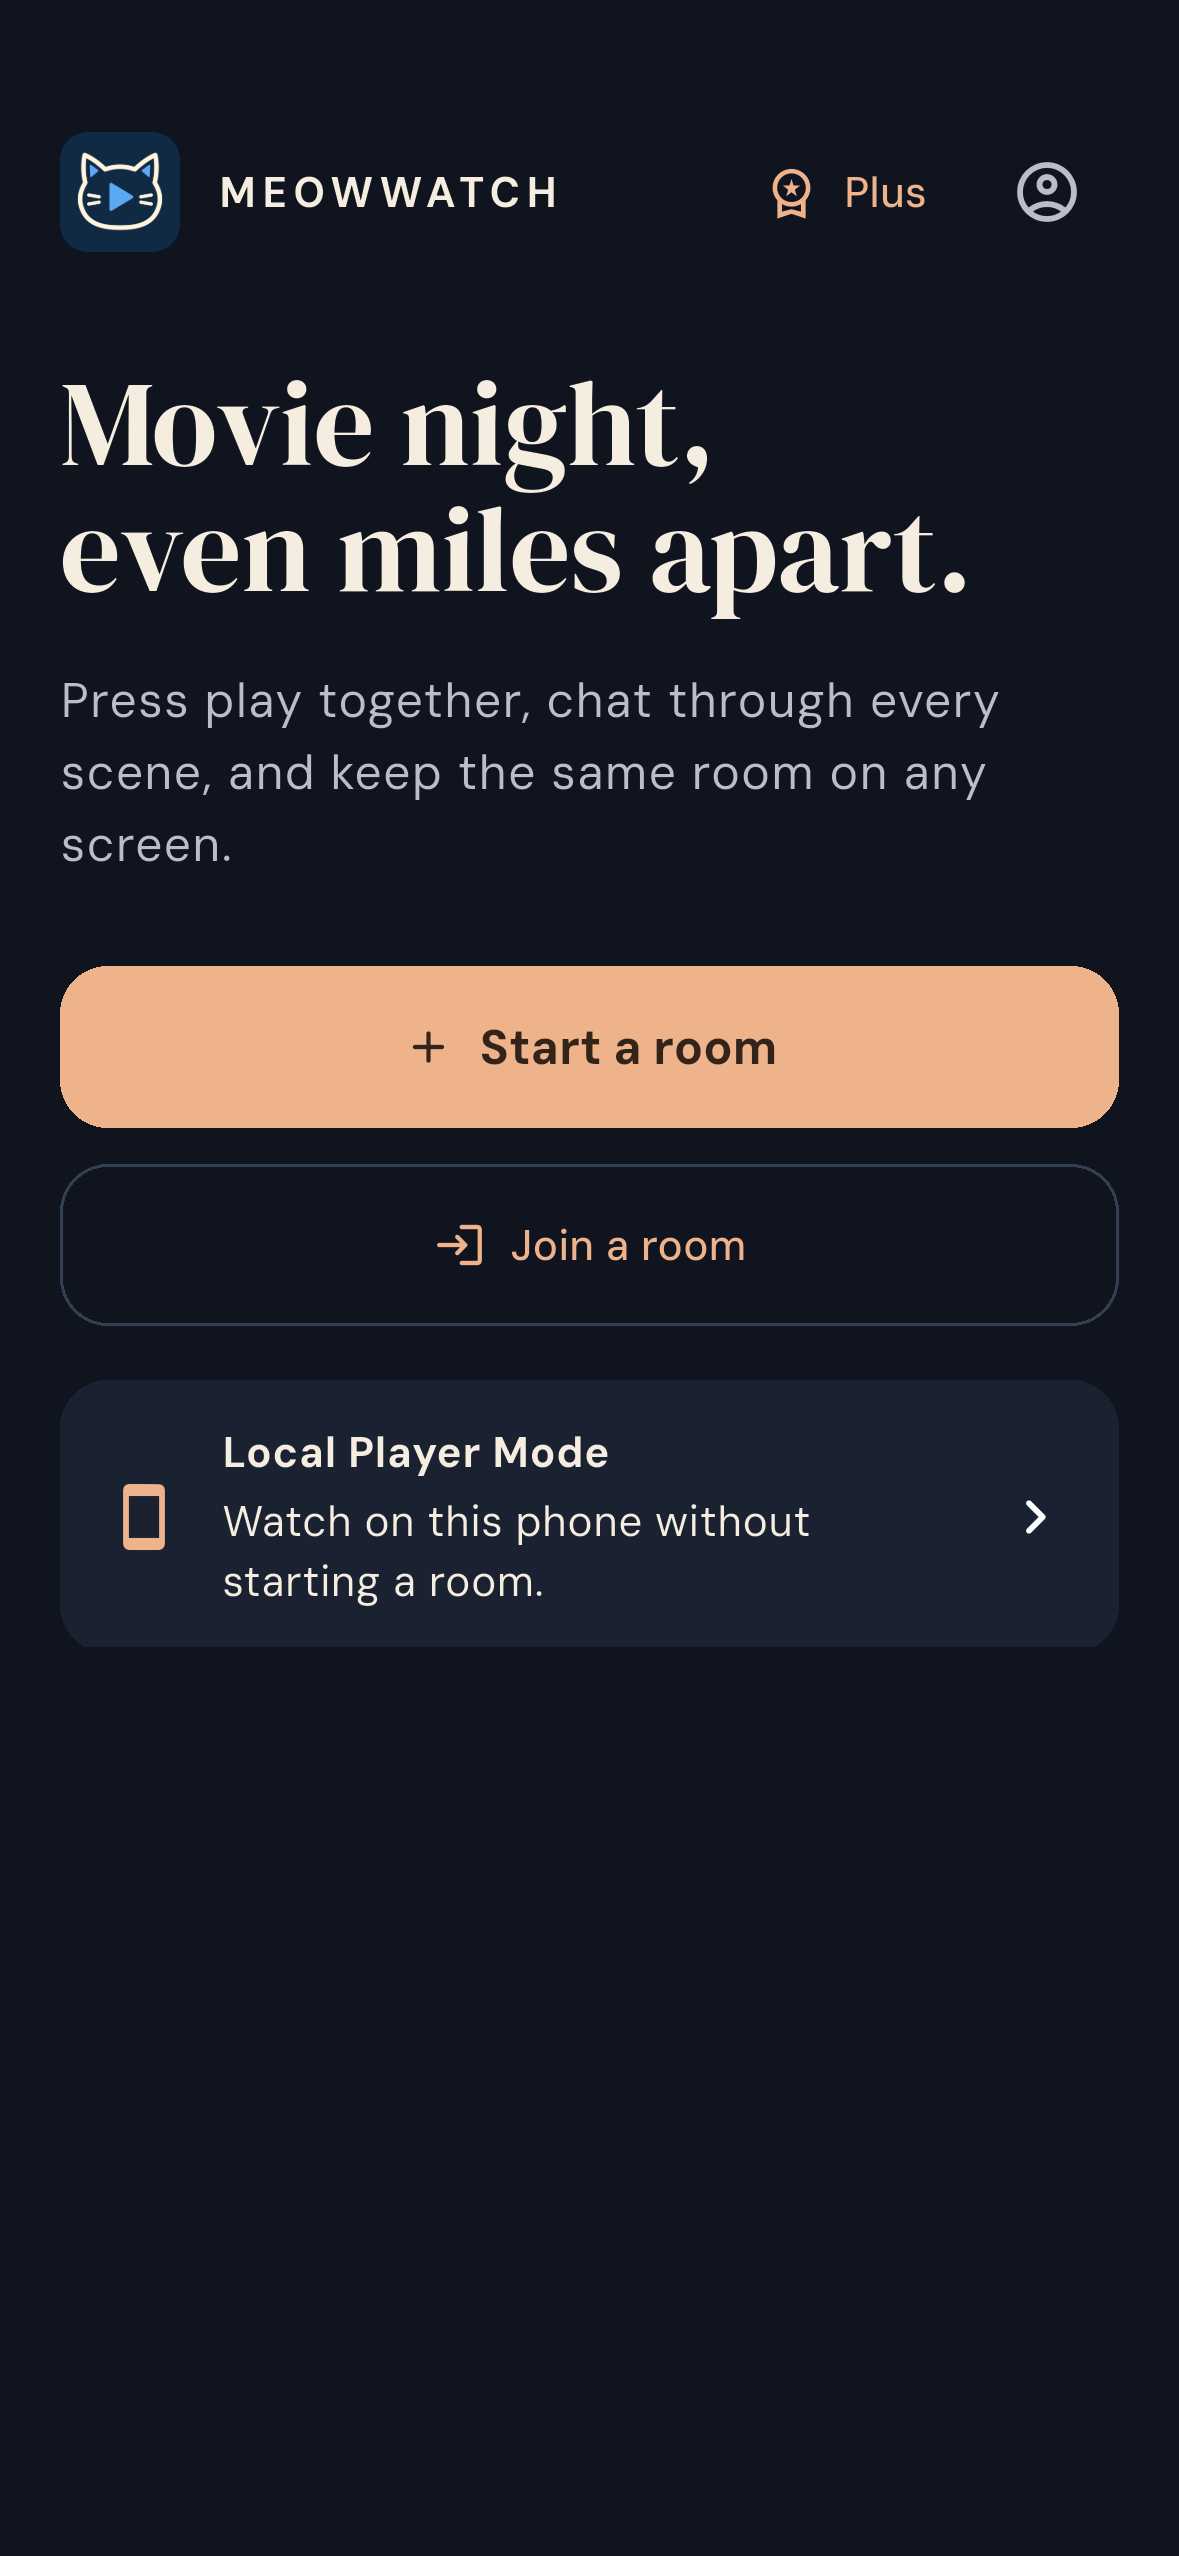
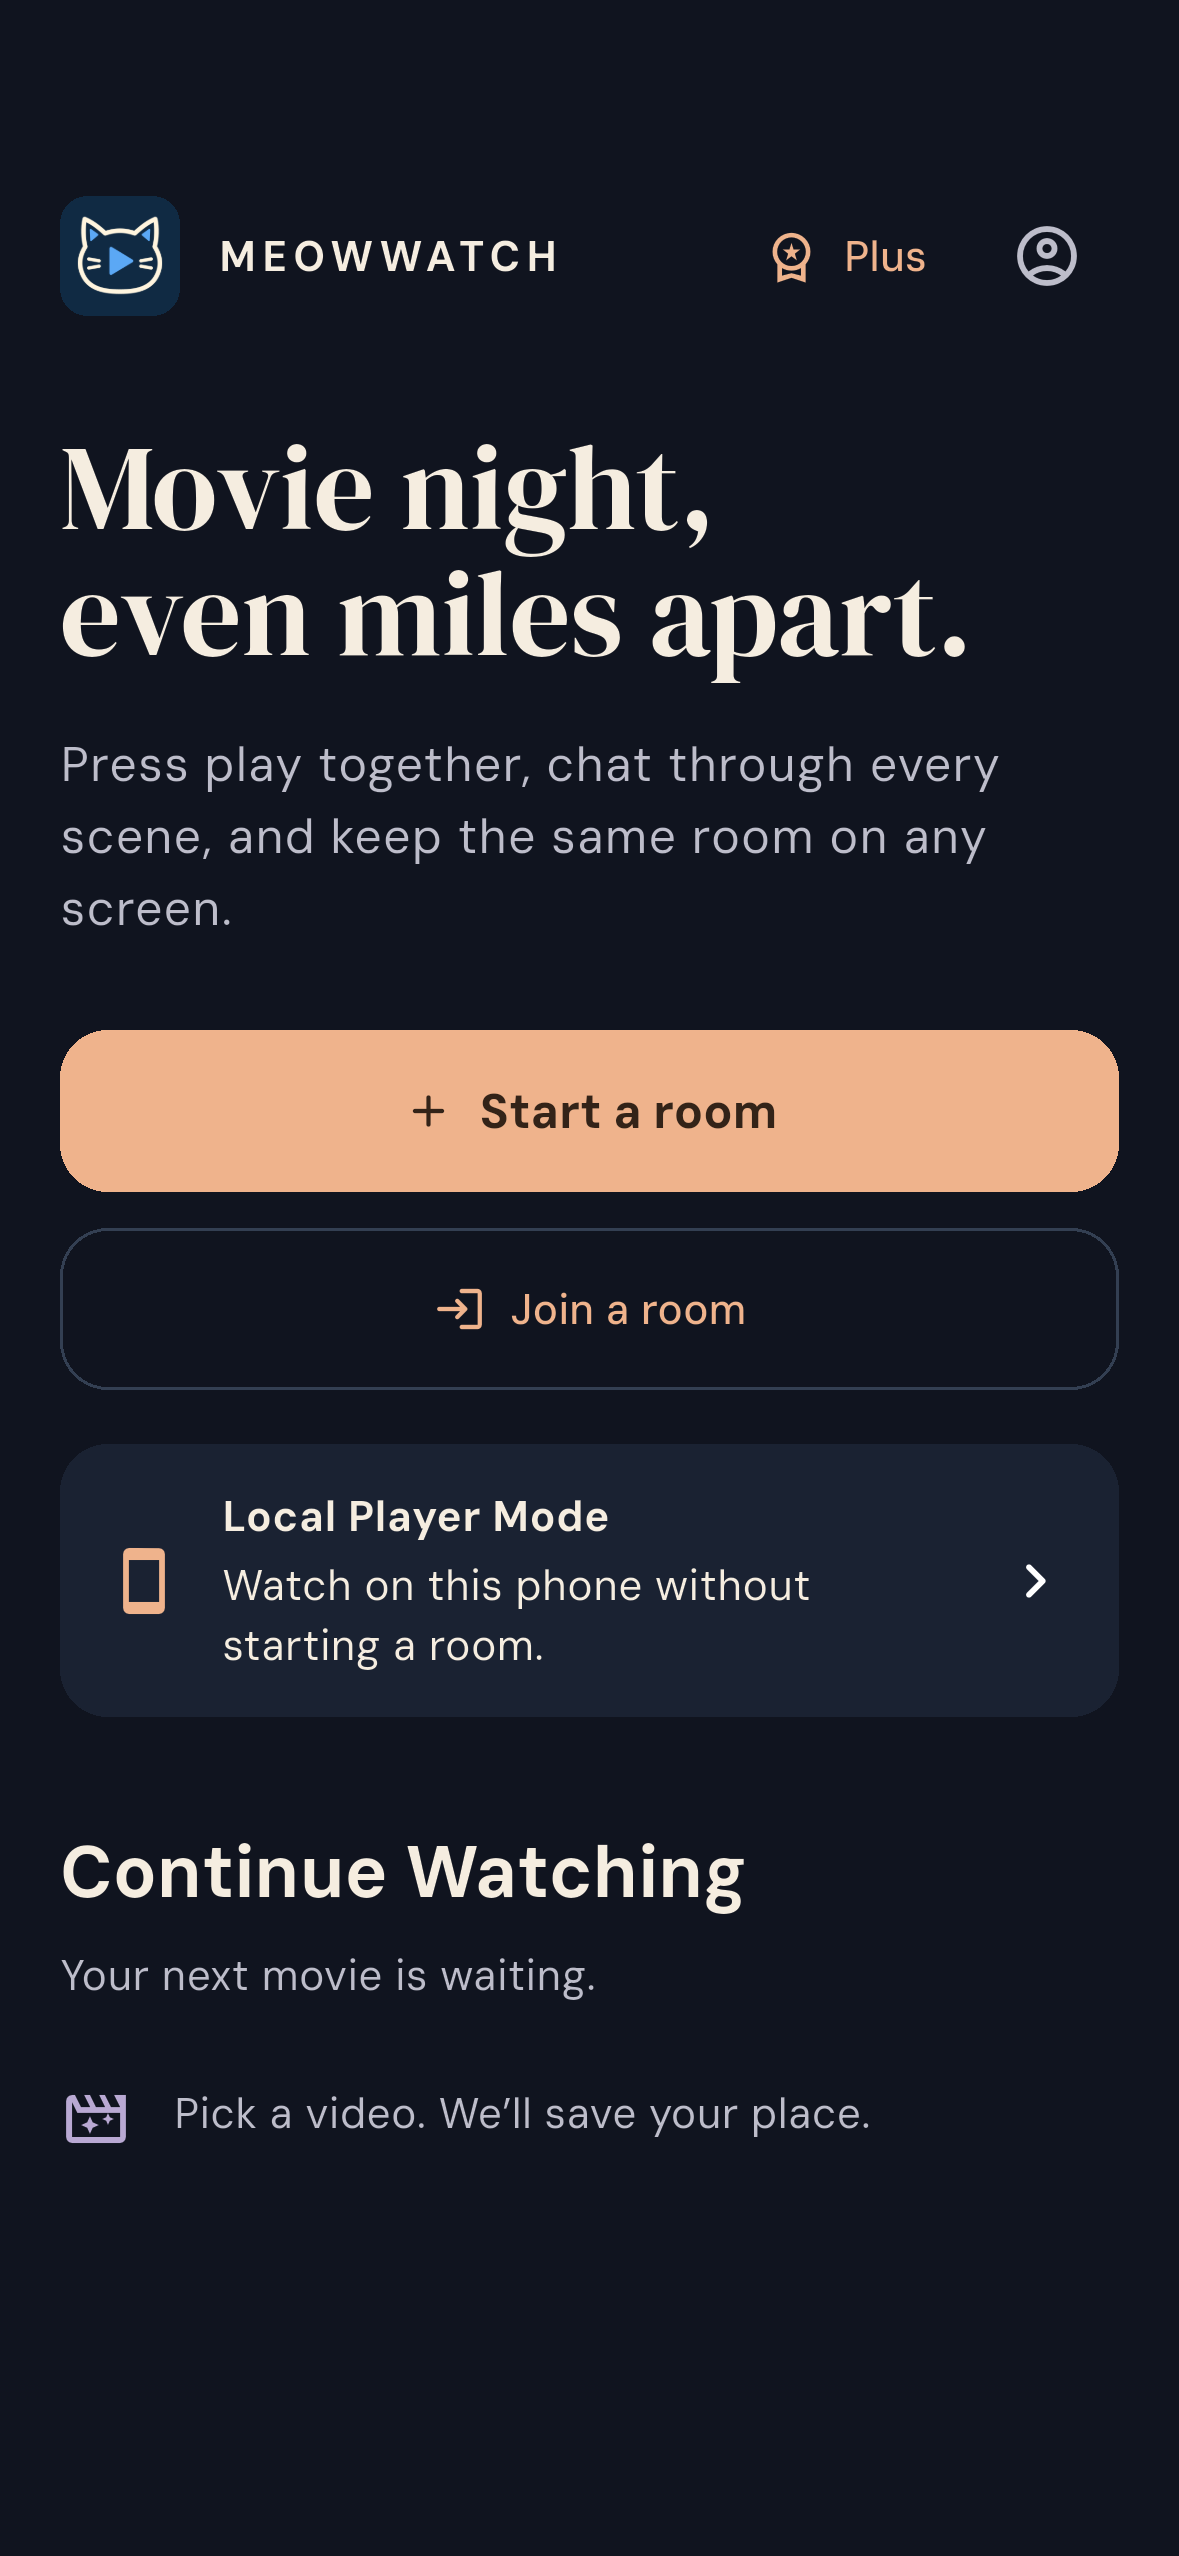
Prepare reproducible brand assets and accurate native demo cuts

diff --git a/tools/submission_demo/test_compose.py b/tools/submission_demo/test_compose.py
@@ -173,6 +173,64 @@ class EdlValidationTests(unittest.TestCase):
 
 @unittest.skipUnless(shutil.which("ffmpeg") and shutil.which("ffprobe"), "ffmpeg and ffprobe required")
 class RenderTests(unittest.TestCase):
+    def test_vfr_cuts_keep_held_frame_and_fractional_pair_offsets(self):
+        with tempfile.TemporaryDirectory(prefix="meowwatch-vfr-synthetic-only-") as folder:
+            root = Path(folder)
+            edl_path = fixture(root)
+            edl = compose.read_json(edl_path)
+            for role, size in (("phone", "90x180"), ("tablet", "320x180")):
+                path = root / f"vfr-{role}.mp4"
+                graph = ";".join(f"color={color}:s={size}:r=10:d=0.1[v{i}]"
+                                  for i, color in enumerate(("red", "lime", "blue", "yellow", "magenta")))
+                graph += ";[v0][v1][v2][v3][v4]concat=n=5:v=1:a=0,settb=1/1000,"
+                graph += "setpts='if(eq(N,0),0,if(eq(N,1),700,if(eq(N,2),1800,if(eq(N,3),2050,2900))))'[out]"
+                subprocess.run(["ffmpeg", "-hide_banner", "-loglevel", "error", "-filter_complex_threads", "1",
+                                "-filter_complex", graph, "-map", "[out]", "-fps_mode", "vfr", "-enc_time_base", "1:1000",
+                                "-video_track_timescale", "1000", "-c:v", "libx264", "-bf", "0", "-threads", "1",
+                                "-pix_fmt", "yuv420p", str(path)], check=True)
+                frame_data = json.loads(subprocess.check_output([
+                    "ffprobe", "-v", "error", "-select_streams", "v:0", "-show_frames", "-show_entries",
+                    "frame=best_effort_timestamp_time", "-of", "json", str(path)], text=True))
+                self.assertEqual([float(f["best_effort_timestamp_time"]) for f in frame_data["frames"]],
+                                 [0, 0.7, 1.8, 2.05, 2.9])
+                edl["sources"][role].update({"path": path.name, "sha256": compose.sha256(path)})
+            timing_path = root / "vfr-timing.json"
+            timing = {"schemaVersion": 2, "sources": {}}
+            for role, offset in (("phone", 0), ("tablet", 0.37)):
+                timing["sources"][role] = {"segments": [{
+                    "path": edl["sources"][role]["path"], "sha256": edl["sources"][role]["sha256"],
+                    "status": "available", "estimatedStartSeconds": str(offset),
+                    "estimatedEndSeconds": str(offset + 3)}], "recordingGaps": []}
+            timing_path.write_text(json.dumps(timing), encoding="utf-8")
+            edl["timelines"]["together"] = {"path": timing_path.name, "sha256": compose.sha256(timing_path)}
+            edl["shots"] = [edl["shots"][1], edl["shots"][2]]
+            edl["shots"][0].update({"in": 0.85, "out": 2.85})
+            edl["shots"][1].update({"in": 2.15, "out": 2.95})
+            edl_path.write_text(json.dumps(edl), encoding="utf-8")
+            target = root / "synthetic-vfr.mp4"
+            manifest = compose.render(edl_path, target, preset="ultrafast")
+            self.assertAlmostEqual(manifest["output"]["probe"]["duration"], 2.8, places=5)
+            # Sample every output frame. A normal player holds the source frame
+            # whose PTS is the greatest timestamp <= the requested source clock.
+            colors = [(255, 0, 0), (0, 255, 0), (0, 0, 255), (255, 255, 0), (255, 0, 255)]
+            transitions = [0, 0.7, 1.8, 2.05, 2.9]
+            for role, x, y, start, count, source_in in (
+                ("phone", 320, 450, 0, 60, 0.85),
+                ("tablet", 1200, 500, 0, 60, 0.48),
+                ("single tail", 1300, 500, 60, 24, 2.15),
+            ):
+                pixels = subprocess.check_output([
+                    "ffmpeg", "-hide_banner", "-loglevel", "error", "-i", str(target),
+                    "-vf", f"trim=start_frame={start}:end_frame={start+count},crop=2:2:{x}:{y}",
+                    "-fps_mode", "passthrough", "-f", "rawvideo", "-pix_fmt", "rgb24", "pipe:1"])
+                self.assertEqual(len(pixels), count * 12)
+                for frame in range(count):
+                    clock = source_in + frame / 30
+                    expected = colors[max(i for i, t in enumerate(transitions) if t <= clock + 0.000001)]
+                    actual = pixels[frame * 12:frame * 12 + 3]
+                    self.assertTrue(all(abs(actual[c] - expected[c]) < 30 for c in range(3)),
+                                    (role, frame, clock, expected, tuple(actual)))
+
     def test_synthetic_render_keeps_offsets_and_real_pixels_and_records_hashes(self):
         with tempfile.TemporaryDirectory(prefix="meowwatch-synthetic-only-") as folder:
             root = Path(folder)
@@ -184,6 +242,13 @@ class RenderTests(unittest.TestCase):
             self.assertEqual(manifest["output"]["probe"]["duration"], 3)
             self.assertEqual(manifest["output"]["sha256"], compose.sha256(target))
             self.assertEqual(before, {path: compose.sha256(path) for path in before})
+            frames = json.loads(subprocess.check_output([
+                "ffprobe", "-v", "error", "-select_streams", "v:0", "-show_frames",
+                "-show_entries", "frame=color_space,color_range,color_primaries,color_transfer",
+                "-of", "json", str(target)], text=True))["frames"]
+            self.assertEqual(len(frames), 90)
+            self.assertEqual({(f["color_space"], f["color_range"], f["color_primaries"], f["color_transfer"])
+                              for f in frames}, {("bt709", "tv", "bt709", "bt709")})
             for when, x, y, color in ((0.65, 320, 450, 1), (0.65, 1200, 500, 0),
                                       (1.3, 1200, 500, 1), (1.8, 1300, 500, 2)):
                 pixels = subprocess.check_output([

diff --git a/tools/submission_demo/compose.py b/tools/submission_demo/compose.py
@@ -237,7 +237,7 @@ def render_shot(plan: dict, shot: dict, folder: Path, ffmpeg: str, preset: str) 
                "-filter_complex_threads", "1", "-loop", "1", "-i", "logo.png"]
     for clip in shot["clips"]:
         command.extend(["-noautorotate", "-i", str(plan["sources"][clip["source"]]["path"])])
-    graph = [f"color=c={NAVY}:s=1920x1080:r=30:d={shot['duration']:.9f}[bg]"]
+    graph = [f"color=c={NAVY}:s=1920x1080:r=30:d={shot['duration']:.9f},format=rgb24[bg]"]
     current, counter = "bg", 0
 
     def effect(expression: str) -> None:
@@ -283,12 +283,19 @@ def render_shot(plan: dict, shot: dict, folder: Path, ffmpeg: str, preset: str) 
             x, y, width, height = fit(source, boxes[clip["role"]])
             effect(f"drawbox=x={x-12}:y={y-12}:w={width+24}:h={height+24}:color={BLUE}:t=fill")
             effect(f"drawbox=x={x-11}:y={y-11}:w={width+22}:h={height+22}:color={FRAME}:t=fill")
-            graph.append(f"[{index}:v:0]setpts=PTS-STARTPTS,trim=start={clip['in']:.9f}:"
-                         f"end={clip['out']:.9f},setpts=PTS-STARTPTS,fps=30,"
-                         f"scale={width}:{height}:flags=lanczos,setsar=1[device{index}]")
+            # Keep pre-cut frames: a VFR frame can still be on screen at the
+            # requested cut. Rebase the source CLOCK, never the first retained
+            # frame. The 30fps canvas samples the latest source PTS <= its clock;
+            # validated coverage and the canvas frame limit bound the end.
+            # Quantize changes upward to the canvas tick so framesync cannot
+            # round a future VFR frame back onto an earlier output frame.
+            graph.append(f"[{index}:v:0]settb=AVTB,"
+                         f"setpts='ceil((PTS-STARTPTS-{clip['in']:.9f}/TB)*TB*30-0.000001)/(30*TB)',"
+                         "settb=1/30,"
+                         f"scale={width}:{height}:flags=lanczos,setsar=1,format=rgb24[device{index}]")
             counter += 1
             graph.append(f"[{current}][device{index}]overlay=x={x}:y={y}:"
-                         f"eof_action=pass:repeatlast=0[layer{counter}]")
+                         f"eof_action=pass:repeatlast=0:ts_sync_mode=default:format=rgb[layer{counter}]")
             current = f"layer{counter}"
             words(clip["label"], x, y - 53, 25)
         if shot["kind"] == "pair" or shot.get("device") == "tablet":
@@ -300,12 +307,15 @@ def render_shot(plan: dict, shot: dict, folder: Path, ffmpeg: str, preset: str) 
             runtimes += " · approximate recording alignment · 1×"
         words(runtimes, 64, 1014, 18, BLUE)
     graph.append(f"[0:v:0]scale={logo_size}:{logo_size}[mark]")
-    graph.append(f"[{current}][mark]overlay={logo_x}:{logo_y}:shortest=1[branded]")
+    graph.append(f"[{current}][mark]overlay={logo_x}:{logo_y}:shortest=1:format=rgb[branded]")
     current = "branded"
     if plan["synthetic"]:
         effect(f"drawbox=x=0:y=0:w=1920:h=34:color={CREAM}:t=fill")
         words(SMOKE, "(w-text_w)/2", 4, 22, NAVY)
-    graph.append(f"[{current}]format=yuv420p[out]")
+    # Cards and Android captures can carry different color metadata. Composite
+    # in RGB, then perform one explicit delivery conversion for every shot.
+    graph.append(f"[{current}]scale=out_color_matrix=bt709:out_range=tv,format=yuv420p,"
+                 "setparams=range=limited:colorspace=bt709:color_primaries=bt709:color_trc=bt709[out]")
     (folder / "filter.txt").write_text(";\n".join(graph), encoding="utf-8")
     output = folder / "shot.mp4"
     command += ["-filter_complex_script", "filter.txt", "-map", "[out]", "-an",
@@ -349,6 +359,8 @@ def render(edl_path: Path, output: Path, ffmpeg: str = "ffmpeg", ffprobe: str = 
             "schema_version": 1, "purpose": plan["edl"]["purpose"],
             "acceptance": "Synthetic fixture only" if plan["synthetic"] else "Editorial output; native acceptance and visual review remain external",
             "presentation": "1x, direct cuts, proportional fit, no source crop or overlays inside device content; silent",
+            "sampling": "30fps canvas samples the latest source frame at or before each requested source clock; VFR holds retained, no cut-point rebase",
+            "color": "RGB composition; consistent limited-range BT.709 yuv420p delivery conversion",
             "alignment": "Pinned host-command timeline; not frame-accurate synchronization proof",
             "edl_sha256": plan["protected"][plan["edl_path"]],
             "inputs": [{"path": str(path), "sha256": value} for path, value in plan["protected"].items()],

diff --git a/tools/submission_demo/README.md b/tools/submission_demo/README.md
@@ -6,6 +6,8 @@ stays at 1× speed. The tool adds the selected A / Balanced cat/play logo, bundl
 DM Sans / DM Serif Display fonts, navy/cream/blue framing, and text **outside**
 device content. It proportionally scales the complete capture; no cropping,
 app-pixel replacement, generated motion, zooms, transitions or frozen padding.
+Compositing uses RGB and one consistent limited-range BT.709 delivery conversion,
+so graphics and native shots do not switch color metadata at editorial cuts.
 
 This tool performs an edit, not product acceptance. It cannot determine whether
 an input is authentic, whether the recorded build passed, or whether a claim is
@@ -107,6 +109,16 @@ alignment · 1×**. Visual alignment
 does not replace native convergence measurements. The compositor does not
 independently shift devices to make them appear synchronized.
 
+Android screenrecord can use a variable frame rate. Cuts retain the frame
+already on screen at the requested source time, including when its timestamp
+precedes the cut. The renderer shifts the source clock by the requested in point,
+then samples it on the 30 fps canvas. A change first appears on the first output
+tick at or after its original time; no future frame is selected early. It does
+not trim away held frames and rebase the next retained frame to zero. This uses
+FFmpeg's [timestamp-based frame synchronization](https://ffmpeg.org/ffmpeg-filters.html#Options-for-filters-with-several-inputs-framesync).
+Output ranges must still fit actual video coverage, and source EOF is never
+extended to fill a missing tail.
+
 The timing manifest may contain the runner's original Linux paths; matching by
 hash and basename lets downloaded artifacts resolve locally without rewriting
 that evidence. EDL source paths always point to the downloaded originals.
@@ -121,6 +133,10 @@ python -m py_compile tools/submission_demo/compose.py tools/submission_demo/test
 The test suite creates explicit red/green/blue synthetic fixtures in a temporary
 folder, renders title/pair/single/end shots, probes the MP4, and samples output
 pixels to check that the measured half-second tablet offset is retained. It
+also encodes a true VFR fixture at irregular timestamps 0, 0.7, 1.8, 2.05 and
+2.9 seconds. Every rendered frame is checked against the original held-frame
+clock for cuts between source frames, a fractional 0.37-second tablet offset
+and a clip ending inside the last frame's real coverage. It
 checks original source hashes remain unchanged and verifies failure behavior
 for falsified dimensions/hashes, gaps, independent retiming, source overrun,
 overlong films, mixing synthetic/native purposes and output overwrite.

diff --git a/assets/submission/README.md b/assets/submission/README.md
@@ -30,14 +30,17 @@ byte for byte from the CI artifact: no resizing, cropping, frame or retouching.
 
 This screenshot is separate from the typeset cover artwork above. Its
 [provenance](screenshot-provenance.json) records the exact source commit,
-[run 35191578153](https://github.com/PeterShanxin/MeowWatch-Mobile/actions/runs/35191578153),
+[run 35194003110](https://github.com/PeterShanxin/MeowWatch-Mobile/actions/runs/35194003110),
 artifact-relative path, APK and image hashes, dimensions and runtime.
 
-The source workflow **did not pass its complete purchase journey**. It reached
-free hosting, the quota paywall and native purchase cancellation before a later
-driver failure. The screenshot establishes the rendered home screen; that run
-does not prove its later purchase, restore or paid-hosting steps, or physical
-device behavior. This original capture is not regenerated by the artwork tool.
+The source workflow passed all ten recorded emulator acceptance stages. It
+covered one free host and two distinct paid hosts with a real TLS peer, native
+Test Store cancellation, simulated failure and successful purchase,
+same-customer restore after customer-info cache invalidation, and premium theme
+persistence. The restore evidence does not cover reinstall or lost-identity
+recovery. The screenshot itself establishes the rendered home screen, and the
+run does not establish physical-device rendering. This original capture is not
+regenerated by the artwork tool.
 
 ## Regenerate
 
